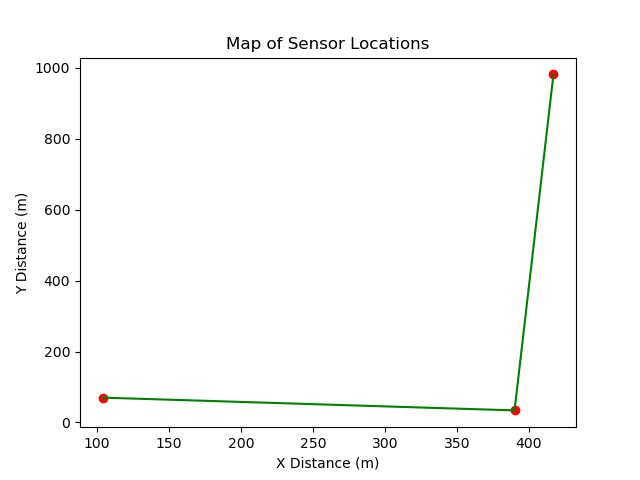
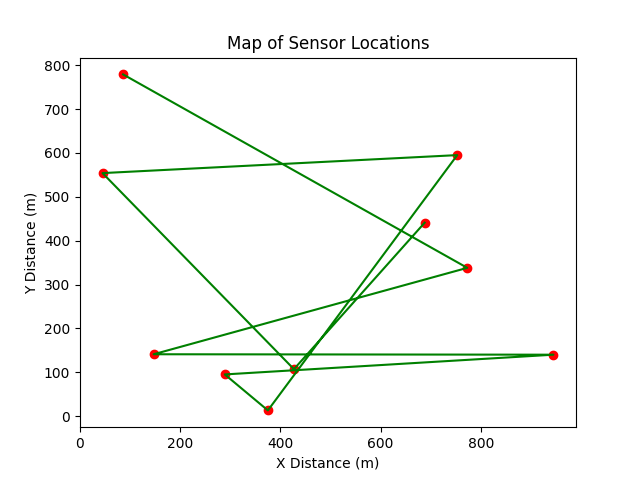
Plotting Animation

diff --git a/Challenge1/challeng1.py b/Challenge1/challeng1.py
@@ -1,10 +1,10 @@
 from matplotlib import pyplot as plt
 from matplotlib.animation import FuncAnimation
 import numpy as np
+from drawnow import *
 from pprint import pprint
 
-
-filename = 'splits.txt'
+filename = 'splits2.txt'
 try:
     f = open(filename, 'r')
 except:
@@ -71,7 +71,6 @@ for lap in range(2, numlaps + 2):
     ind += 1
 
 timearray = np.asarray(times)
-
 #an array containing the fastest times for each split
 fastest_splits = np.amin(timearray, axis = 0)
 
@@ -85,8 +84,9 @@ for i in range(numlaps):
         fastest_lap = i
 
 
-#plotting
+# plotting
 nparray = np.asarray(sensor_data)
+# print(nparray[0])
 xlocs, ylocs = nparray[:, 0], nparray[:, 1]
 plt.scatter(xlocs, ylocs, color = 'red')
 plt.plot(xlocs, ylocs, color = 'green')
@@ -97,24 +97,30 @@ plt.title("Map of Sensor Locations")
 plt.savefig('map.png')
 plt.clf
 
+print(numlaps)
+# Animating laps using drawnow
+def makeFig():
+    plt.title(f"Lap {lap_num}")
+    plt.scatter(curr_x, curr_y, color = 'red')
 
-fig, ax = plt.subplots()
-ax.set_xlim(min(xlocs), max(xlocs))
-ax.set_ylim(min(ylocs), max(ylocs))
-line, = ax.plot([], [])
+    if lap_num is fastest_lap:
+        plt.plot(curr_x, curr_y, color = 'purple')
+    else:
+        plt.plot(curr_x, curr_y, color = 'green')
+    plt.xlabel("X Distance (m)")
+    plt.ylabel("Y Distance (m)")
+    plt.xlim(min(xlocs) - 10, max(xlocs) + 10)
+    plt.ylim(min(ylocs) - 10, max(ylocs) + 10)
 
-def init():
-    line.set_data([], [])
-    return line,
-
-def animate(i):
-    x = xlocs[:i+1]
-    y = ylocs[:i+1] 
-    line.set_data(x, y)
-    return line,
-
-def animateplot(speed):
-    anim = FuncAnimation(fig, animate, init_func=init,frames=len(xlocs), interval=500)
+lap_num = 1
+for t in timearray:
+    curr_x = []
+    curr_y = []
+    for i in range(len(t)):
+        curr_x.append(xlocs[i])
+        curr_y.append(ylocs[i])
+        # Pause for the specific amount of time before drawing the appended plot
+        plt.pause(t[i]/10)
+        drawnow(makeFig)
     
-    pass
-
+    lap_num = lap_num + 1
